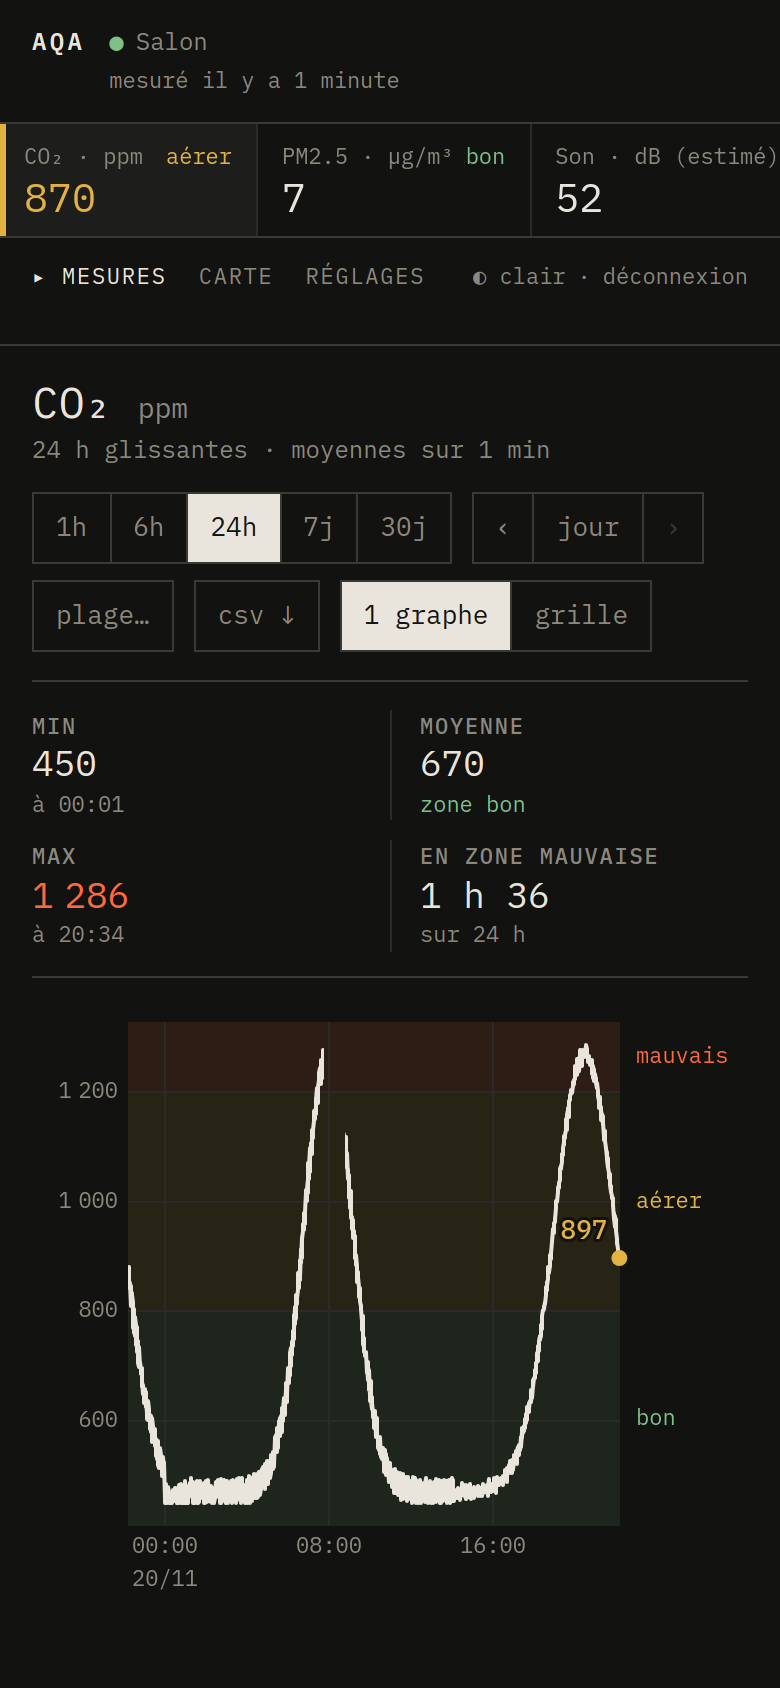
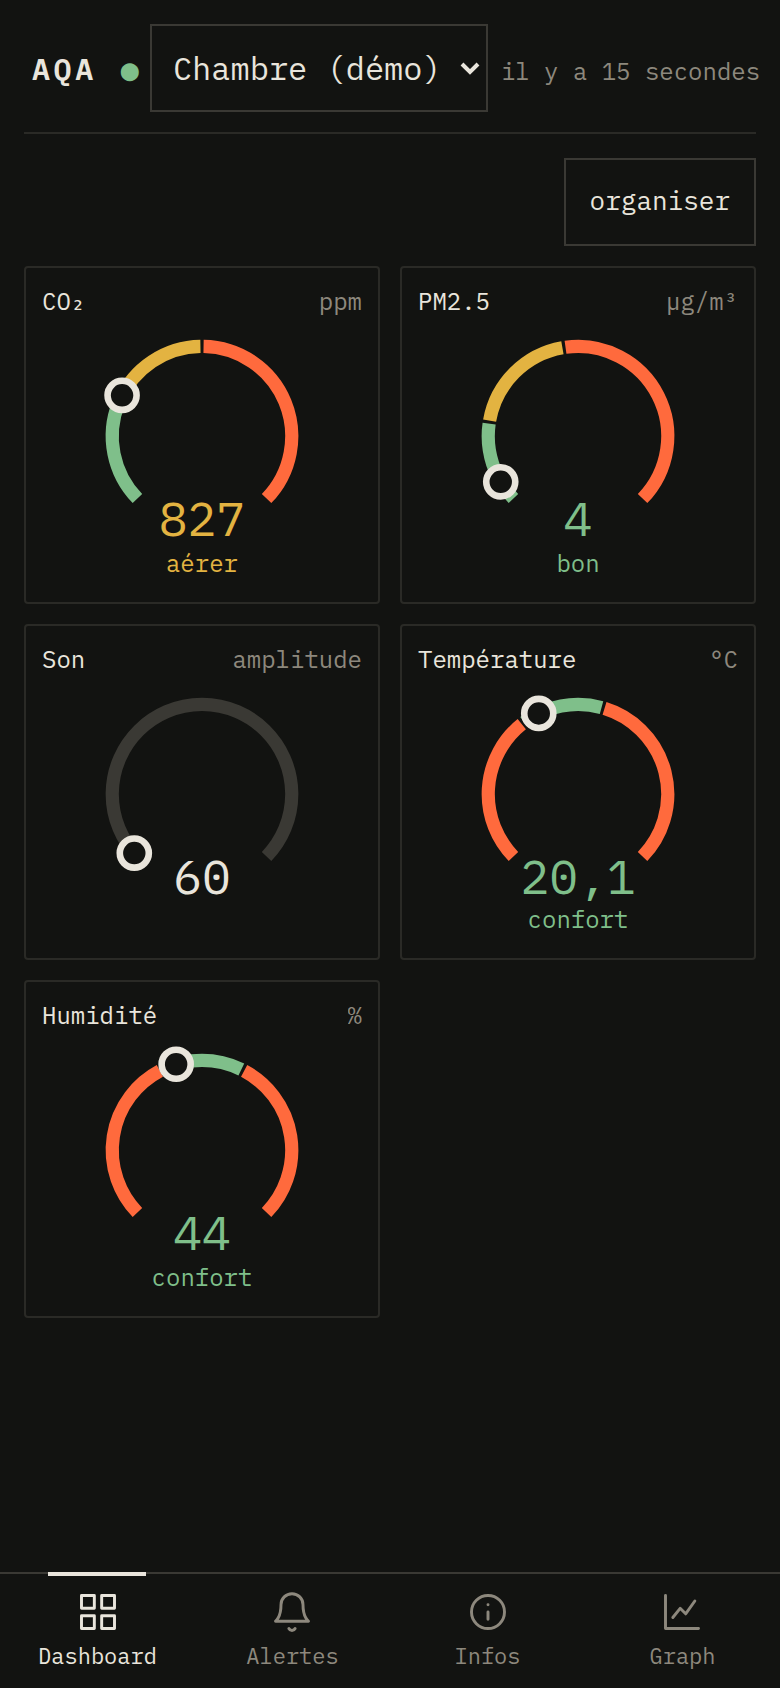
docs(mobile): capture et mention dans le README

diff --git a/web/src/styles.css b/web/src/styles.css
@@ -704,7 +704,7 @@ input[type="file"]::file-selector-button:hover { background: var(--surface-sel);
 .mb-name { overflow: hidden; text-overflow: ellipsis; white-space: nowrap; }
 .mb-switch {
   font-size: 16px; /* under 16px iOS zooms the page on focus */
-  background: var(--bg); border: 1px solid var(--rule-strong); padding: 4px 6px; min-height: 36px; max-width: 45vw;
+  background: var(--bg); border: 1px solid var(--rule-strong); padding: 4px 6px; min-height: 44px; max-width: 45vw;
 }
 .mb-ago { margin-left: auto; font-size: 12px; white-space: nowrap; }
 .mb-main:focus { outline: none; }
@@ -770,7 +770,7 @@ input[type="file"]::file-selector-button:hover { background: var(--surface-sel);
 .mb-editing .mb-g-head { padding-right: 18px; }
 .mb-g-move { display: flex; gap: 6px; margin-top: 6px; }
 .mb-g-move button {
-  width: 44px; height: 36px;
+  width: 44px; height: 44px;
   background: transparent; border: 1px solid var(--rule-strong); border-radius: 2px;
 }
 .mb-g-move button:disabled { color: var(--muted); border-color: var(--rule); }
@@ -802,7 +802,7 @@ input[type="file"]::file-selector-button:hover { background: var(--surface-sel);
 }
 .mb-fg-head { display: flex; align-items: center; gap: 8px; flex-wrap: wrap; }
 .mb-fg-head h2 { font-size: 15px; font-weight: 500; margin-right: auto; }
-.mb-fg-range > button { min-height: 40px; min-width: 40px; padding: 0 8px; font-size: 13px; }
+.mb-fg-range > button { min-height: 44px; min-width: 44px; padding: 0 8px; font-size: 13px; }
 .mb-fg-close {
   width: 44px; height: 44px; display: inline-flex; align-items: center; justify-content: center;
   background: none; border: 1px solid var(--rule-strong); border-radius: 2px; font-size: 16px;

diff --git a/README.md b/README.md
@@ -89,13 +89,15 @@ From the Settings page you can:
 
 ### Dark or light, desktop or phone
 
-The app opens in dark mode and switches to light in one click. It works on a
-phone too.
+The app opens in dark mode and switches to light in one click. On a phone it
+has its own layout: a dashboard of gauges you can reorder (long press, then
+drag), the alerts, the board's state (read only) and a full-screen chart to view
+in landscape. Board commands and settings stay on the desktop.
 
 <p>
   <img src="docs/screenshots/measures-light.png" alt="Light theme" width="68%">
   &nbsp;
-  <img src="docs/screenshots/phone.png" alt="On a phone" width="27%">
+  <img src="docs/screenshots/phone.png" alt="Phone dashboard: one gauge per measure" width="27%">
 </p>
 
 ## Getting started
